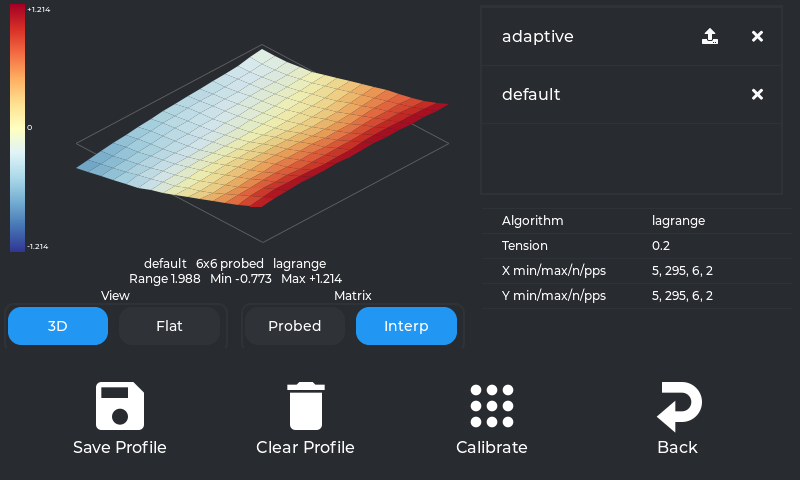
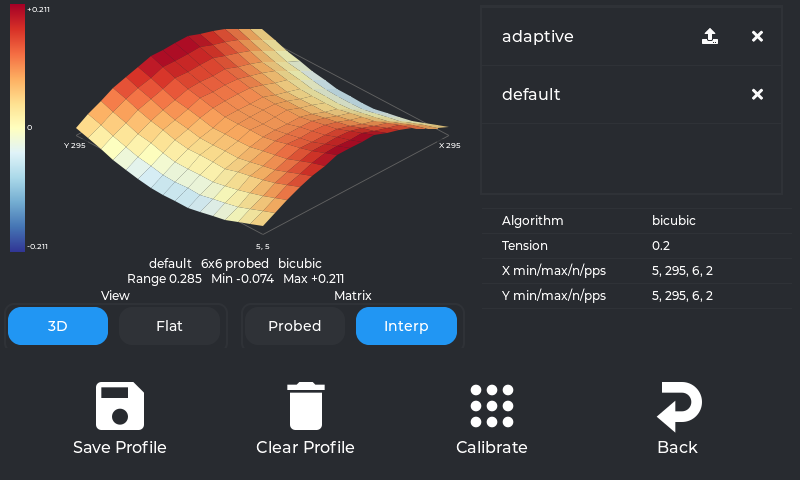
feat: label the bed mesh 3D view with the bed's coordinates
The shaded surface says nothing about which corner of the render is
which corner of the bed, and dragging it round makes that worse. A mesh
reading high on the right cannot be acted on until you know whether
right is +X.

The corners of the z=0 plane now carry the bed's own coordinates: the
one nearest the viewer with both, and the two either side of it with the
axis that runs along the edge between, so they stay right at any
rotation. Values come from the loaded mesh's mesh_min and mesh_max, not
the active profile's mesh_params, because an adaptive calibrate loads a
smaller area than the profile it was saved from.

Each label sits on a little of the background, since tipped towards plan
view the plane fills the plot and there is no outside left to put a
label in.

diff --git a/src/mesh_view.cpp b/src/mesh_view.cpp
@@ -104,6 +104,10 @@ MeshView::MeshView(lv_obj_t *parent, lv_coord_t w, lv_coord_t h)
   , plot_x1(w - 3)
   , plot_y1(h - 3)
   , bg(lv_color_black())
+  , ext_min_x(0.0)
+  , ext_min_y(0.0)
+  , ext_max_x(0.0)
+  , ext_max_y(0.0)
   , zmin(0.0)
   , zmax(0.0)
   , zref(0.0)
@@ -210,7 +214,17 @@ void MeshView::set_mesh(const std::vector<std::vector<double>> &m) {
 void MeshView::clear() {
   mesh.clear();
   zmin = zmax = zref = 0.0;
+  // Or the next mesh to arrive without extents would be labelled with the
+  // cleared one's bed area.
+  ext_min_x = ext_min_y = ext_max_x = ext_max_y = 0.0;
   render();
+}
+
+void MeshView::set_extents(double min_x, double min_y, double max_x, double max_y) {
+  ext_min_x = min_x;
+  ext_min_y = min_y;
+  ext_max_x = max_x;
+  ext_max_y = max_y;
 }
 
 void MeshView::set_mode(Mode m) {
@@ -219,6 +233,10 @@ void MeshView::set_mode(Mode m) {
   }
   mode = m;
   render();
+}
+
+lv_color_t MeshView::ink() const {
+  return lv_color_brightness(bg) > 140 ? lv_color_black() : lv_color_white();
 }
 
 void MeshView::fill_background() {
@@ -281,9 +299,7 @@ void MeshView::render_legend() {
   lv_draw_label_dsc_t dsc;
   lv_draw_label_dsc_init(&dsc);
   dsc.font = &lv_font_montserrat_8;
-  // These sit on the canvas background, which follows the theme, so pick the
-  // contrasting ink rather than assuming the dark theme.
-  dsc.color = lv_color_brightness(bg) > 140 ? lv_color_black() : lv_color_white();
+  dsc.color = ink();
 
   // The scale is symmetric, so its ends are the reference and its middle is
   // always zero. Labelling all three makes both facts visible.
@@ -476,6 +492,109 @@ void MeshView::render_surface() {
       edge_dsc.color = shaded_color_at(zavg, shade * 0.6);
       lv_canvas_draw_line(canvas, poly, 5, &edge_dsc);
     }
+  }
+
+  // Last, so nothing is drawn over the labels.
+  render_axes(cam);
+}
+
+// Which corner of the render is which corner of the bed, which the surface
+// alone cannot say and dragging it makes worse. Three corners of the z=0 plane
+// get labelled: the one nearest the viewer with both its coordinates, and the
+// two either side of it with the axis running along the edge between. The
+// fourth is the far one, behind the surface, where a label would read as
+// belonging to whatever it landed on.
+void MeshView::render_axes(const Camera &cam) {
+  // The same corners in the same order as the frame drawn above.
+  static const double corner_x[4] = {-1.0, 1.0, 1.0, -1.0};
+  static const double corner_y[4] = {-1.0, -1.0, 1.0, 1.0};
+
+  // Nearest corner by the depth the quads are sorted on, evaluated at z=0.
+  // Whichever it turns out to be, its neighbours in this order are the far
+  // ends of the two edges meeting there, and each differs from it in exactly
+  // one axis: the axis that edge runs along.
+  int near_i = 0;
+  double nearest = -1e30;
+  for (int i = 0; i < 4; i++) {
+    const double d =
+      (corner_x[i] * cam.cos_yaw + corner_y[i] * cam.sin_yaw) * cam.cos_elev;
+    if (d > nearest) {
+      nearest = d;
+      near_i = i;
+    }
+  }
+
+  lv_draw_label_dsc_t dsc;
+  lv_draw_label_dsc_init(&dsc);
+  dsc.font = &lv_font_montserrat_8;
+  dsc.color = ink();
+
+  // Tipped towards plan view the plane fills the plot and there is no longer
+  // an outside to put a label in, so each one carries a little of the
+  // background with it. Otherwise white text lands on the pale end of the
+  // colour scale and disappears.
+  lv_draw_rect_dsc_t chip_dsc;
+  lv_draw_rect_dsc_init(&chip_dsc);
+  chip_dsc.bg_color = bg;
+  chip_dsc.bg_opa = LV_OPA_70;
+  chip_dsc.radius = 2;
+
+  const lv_point_t mid = to_screen(cam, 0.0, 0.0, 0.0);
+
+  auto draw_at = [&](int i, const char *txt) {
+    lv_point_t size;
+    lv_txt_get_size(&size, txt, dsc.font, 0, 0, LV_COORD_MAX, LV_TEXT_FLAG_NONE);
+
+    const lv_point_t p = to_screen(cam, corner_x[i], corner_y[i], 0.0);
+    const double dx = p.x - mid.x;
+    const double dy = p.y - mid.y;
+    const double len = std::sqrt(dx * dx + dy * dy);
+    const double push = len > 1.0 ? 8.0 / len : 0.0;
+    // Away from the plane, then down. All three labelled corners are in the
+    // lower half of the projection, so down is further out for each of them,
+    // and the camera only leaves a few pixels of horizontal slack to work
+    // with while there is always room below.
+    lv_coord_t x = static_cast<lv_coord_t>(std::lround(p.x + dx * push)) - size.x / 2;
+    lv_coord_t y = static_cast<lv_coord_t>(std::lround(p.y + dy * push + 10.0)) - size.y / 2;
+    // Measured rather than guessed at, so this keeps the text itself inside
+    // the plot and off the colour scale.
+    x = std::max<lv_coord_t>(plot_x0, std::min<lv_coord_t>(x, plot_x1 - size.x));
+    y = std::max<lv_coord_t>(plot_y0, std::min<lv_coord_t>(y, plot_y1 - size.y));
+    lv_canvas_draw_rect(canvas, x - 2, y - 1, size.x + 4, size.y + 2, &chip_dsc);
+    lv_canvas_draw_text(canvas, x, y, size.x, &dsc, txt);
+  };
+
+  if (!has_extents()) {
+    // No mesh_min from the printer. Which way the axes run is still worth
+    // having, even without the millimetres.
+    for (int step : {1, 3}) {
+      const int i = (near_i + step) % 4;
+      draw_at(i, corner_x[i] != corner_x[near_i] ? "X" : "Y");
+    }
+    return;
+  }
+
+  auto mm_x = [&](int i) {
+    return ext_min_x + (corner_x[i] + 1.0) / 2.0 * (ext_max_x - ext_min_x);
+  };
+  auto mm_y = [&](int i) {
+    return ext_min_y + (corner_y[i] + 1.0) / 2.0 * (ext_max_y - ext_min_y);
+  };
+
+  // Whole millimetres. A tenth of a millimetre says nothing about which way
+  // round the bed is and costs the width of two more digits.
+  char txt[24];
+  snprintf(txt, sizeof(txt), "%.0f, %.0f", mm_x(near_i), mm_y(near_i));
+  draw_at(near_i, txt);
+
+  for (int step : {1, 3}) {
+    const int i = (near_i + step) % 4;
+    if (corner_x[i] != corner_x[near_i]) {
+      snprintf(txt, sizeof(txt), "X %.0f", mm_x(i));
+    } else {
+      snprintf(txt, sizeof(txt), "Y %.0f", mm_y(i));
+    }
+    draw_at(i, txt);
   }
 }
 

diff --git a/src/bedmesh_panel.cpp b/src/bedmesh_panel.cpp
@@ -31,6 +31,17 @@ namespace {
     }
     return j.template get<std::vector<std::vector<double>>>();
   }
+
+  // mesh_min and mesh_max are [x, y] in millimetres. Off the websocket, so
+  // check the shape rather than trusting it.
+  bool corner_from(const json &j, double &x, double &y) {
+    if (!j.is_array() || j.size() != 2 || !j[0].is_number() || !j[1].is_number()) {
+      return false;
+    }
+    x = j[0].template get<double>();
+    y = j[1].template get<double>();
+    return true;
+  }
 }
 
 BedMeshPanel::BedMeshPanel(KWebSocketClient &c, std::mutex &l)
@@ -246,6 +257,27 @@ void BedMeshPanel::refresh_views(json &bm) {
       interp_j = state->get_data("/printer_state/bed_mesh/mesh_matrix"_json_pointer);
     }
     interpolated = matrix_from(interp_j);
+
+    // The bed area the loaded mesh covers, which labels the corners of the 3D
+    // view. This and not the active profile's mesh_params below: an adaptive
+    // calibrate loads a mesh over the objects being printed, which is a
+    // smaller area than the profile it was saved from.
+    auto mesh_min_j = bm["/mesh_min"_json_pointer];
+    if (mesh_min_j.is_null()) {
+      mesh_min_j = state->get_data("/printer_state/bed_mesh/mesh_min"_json_pointer);
+    }
+    auto mesh_max_j = bm["/mesh_max"_json_pointer];
+    if (mesh_max_j.is_null()) {
+      mesh_max_j = state->get_data("/printer_state/bed_mesh/mesh_max"_json_pointer);
+    }
+
+    double min_x = 0.0, min_y = 0.0, max_x = 0.0, max_y = 0.0;
+    if (!corner_from(mesh_min_j, min_x, min_y) || !corner_from(mesh_max_j, max_x, max_y)) {
+      // Zeroes mark the extents unknown, so the last profile's numbers cannot
+      // stay on a mesh they do not describe.
+      min_x = min_y = max_x = max_y = 0.0;
+    }
+    mesh_view.set_extents(min_x, min_y, max_x, max_y);
 
     auto algo = state->get_data(json::json_pointer(
         fmt::format("/printer_state/bed_mesh/profiles/{}/mesh_params/algo", active_profile)));

diff --git a/src/mesh_view.h b/src/mesh_view.h
@@ -28,6 +28,12 @@ class MeshView {
   void set_mesh(const std::vector<std::vector<double>> &m);
   void clear();
 
+  // The bed area the mesh covers, in millimetres, used to label the corners of
+  // the surface view. Stored rather than drawn: every path that changes the
+  // extents goes on to replace the mesh, and set_mesh renders, so rendering
+  // here as well would only draw the same frame twice.
+  void set_extents(double min_x, double min_y, double max_x, double max_y);
+
   void set_mode(Mode m);
   Mode get_mode() const { return mode; }
 
@@ -77,7 +83,17 @@ class MeshView {
   void render_surface();
   void render_flat();
   void render_legend();
+  // Bed coordinates on the corners of the z=0 plane, so a rotated surface can
+  // still be matched to the machine.
+  void render_axes(const Camera &cam);
   void fill_background();
+
+  // A degenerate rectangle means the extents are unknown, which is what a mesh
+  // whose bed_mesh update carried no mesh_min leaves behind.
+  bool has_extents() const { return ext_max_x > ext_min_x && ext_max_y > ext_min_y; }
+  // Whichever ink contrasts with the canvas background, which follows the
+  // theme and so cannot be assumed dark.
+  lv_color_t ink() const;
 
   // Projects every mesh point and returns the camera that was fitted to them,
   // so anything else drawn in the same space can reuse it.
@@ -100,6 +116,12 @@ class MeshView {
   lv_color_t bg;
 
   std::vector<std::vector<double>> mesh;
+  // The bed area the mesh spans, in millimetres. Row 0 column 0 of the matrix
+  // is the min x, min y corner.
+  double ext_min_x;
+  double ext_min_y;
+  double ext_max_x;
+  double ext_max_y;
   double zmin;
   double zmax;
   // Half width of the colour scale, max(|zmin|, |zmax|). Zero for a mesh of

diff --git a/README.md b/README.md
@@ -9,7 +9,9 @@ which stopped receiving commits in July 2024.
 
 ## What has changed since guppyscreen?
 
-**The bed mesh panel was rewritten.**
+**The bed mesh panel was rewritten.** The 3D view labels the corners of its
+ground plane with the bed's own coordinates, so the mesh can still be matched to
+the machine after dragging it round.
 
 | Flat heatmap | The probed points |
 | --- | --- |
